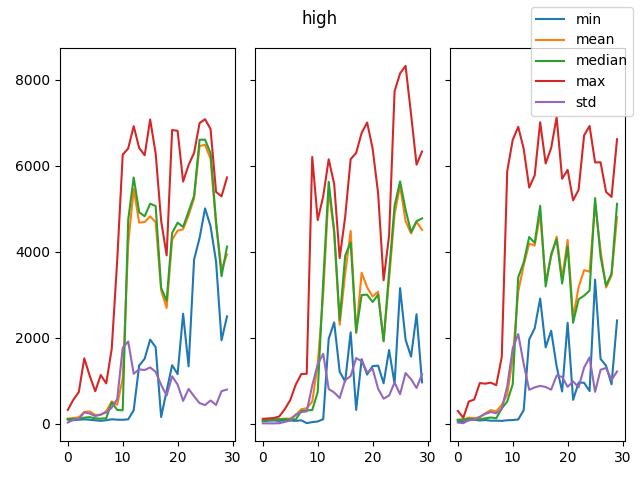
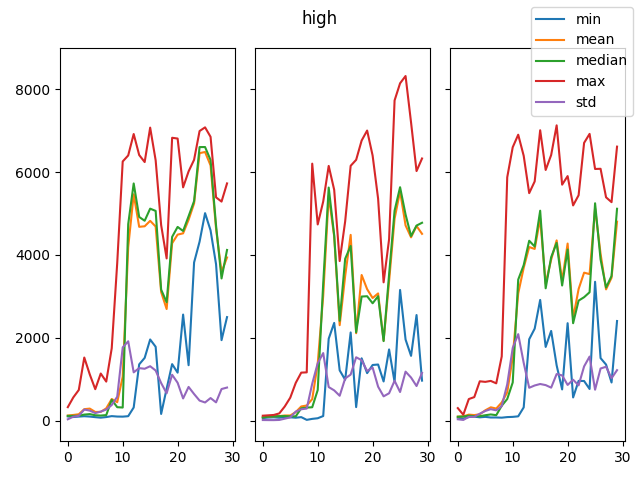
Fix plot ylims

diff --git a/analyses/evolution_stats.py b/analyses/evolution_stats.py
@@ -12,6 +12,7 @@ for filename in os.listdir("results/"):
             runtype = filename.split("-")[1]
             result_dirs[runtype].append(filename)
 
+
 for runtype in result_dirs.keys():
     if(len(result_dirs[runtype]) == 0):
         continue
@@ -37,6 +38,7 @@ for runtype in result_dirs.keys():
                 lcl_labels.append(key)
                 axs[i].plot(range(len(fitnessdata)), [gen[key] for gen in fitnessdata], label=key)
             labels = lcl_labels
+            plt.gca().set_ylim([-500,9000])
     fig.legend(labels)
     fig.suptitle(runtype)
     plt.tight_layout()
